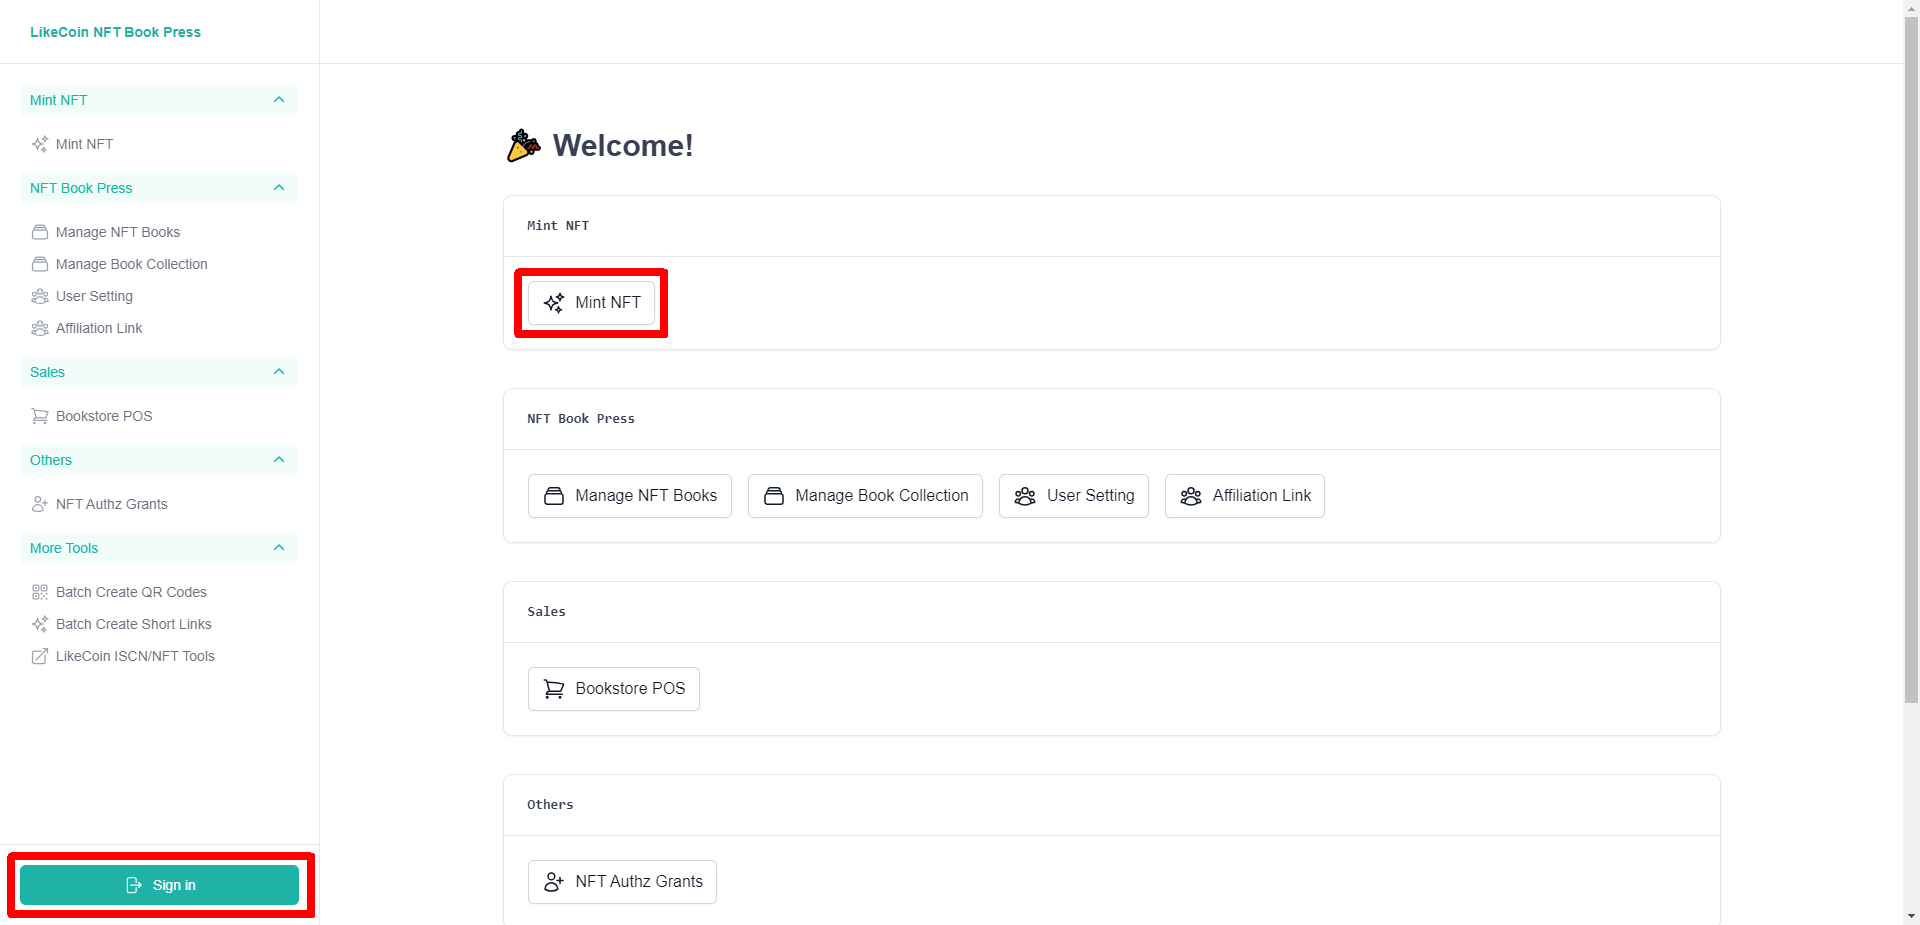
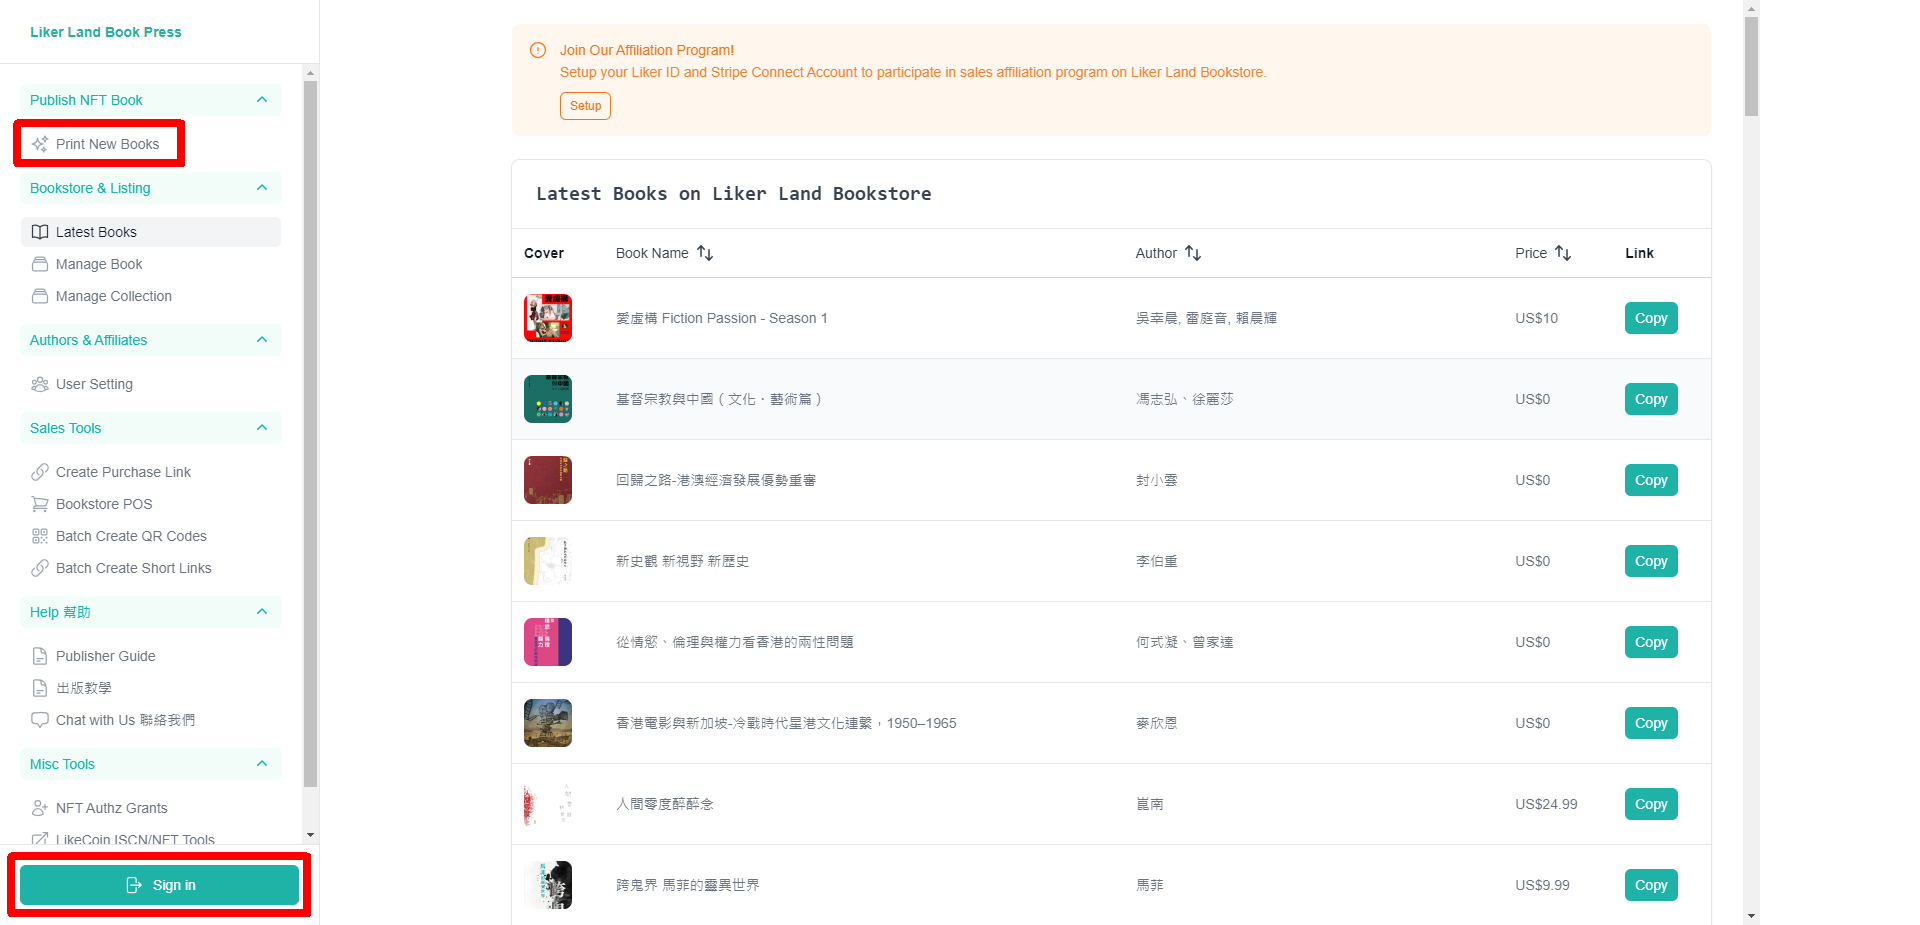
GITBOOK-4741: 出版電子書

diff --git a/depub/nft-book-press/README.md b/depub/nft-book-press/README.md
@@ -1,5 +1,5 @@
 ---
-description: 使用 NFT Book Press 將電子書出版為 NFT
+description: 使用 Liker Land Book Press 將電子書出版為 NFT
 ---
 
 # 出版電子書
@@ -22,7 +22,7 @@ description: 使用 NFT Book Press 將電子書出版為 NFT
 
 4. [管理電子書](nft-book-store.md)
 5. [設定電子書套裝](collection.md)
-6. [NFT Book Press 用戶設定](user/)
+6. [Liker Land Book Press 用戶設定](user/)
 7. [設定推廣連結](tui-guang-lian-jie.md)
 8. [補書上架](replenishment.md)
 9. [修改已出版的電子書資料](modify.md)
@@ -114,13 +114,13 @@ description: 使用 NFT Book Press 將電子書出版為 NFT
 
 <figure><img src="../../.gitbook/assets/NFT Book Press 9.png" alt=""><figcaption><p>點「Mint Book」</p></figcaption></figure>
 
-系統會自動跳轉到 [LikeCoin NFT Book Press](https://likecoin.github.io/nft-book-press/) 網站的 Mint LikeCoin NFT/NFT Book 頁面，並於 Enter ISCN ID or NFT Class ID 一欄預先輸入ISCN ID。點左下角「**Sign In**」登入網站後再點「**Submit**」。
+系統會自動跳轉到 [Liker Land Book Press](https://publish.liker.land/) 網站的 Mint Liker Land NFT Book 頁面，並於 Enter ISCN ID or NFT Class ID 一欄預先輸入 ISCN ID。點左下角「**Sign In**」登入網站後再點「**Submit**」。
 
-<figure><img src="../../.gitbook/assets/NFT Book Press 17.png" alt=""><figcaption><p>在 Enter ISCN ID or NFT Class ID 一欄輸入 ISCN ID</p></figcaption></figure>
+<figure><img src="../../.gitbook/assets/NFT Book Press 17 (1).png" alt=""><figcaption><p>在 Enter ISCN ID or NFT Class ID 一欄輸入 ISCN ID</p></figcaption></figure>
 
-又或者直接到 [LikeCoin NFT Book Press](https://likecoin.github.io/nft-book-press/) 網站按左下角「**Sign In**」登入，再點「[Mint NFT](https://likecoin.github.io/nft-book-press/mint-nft)」，進入網站後並於 Enter ISCN ID or NFT Class ID 一欄手動輸入早前註冊的 ISCN ID 再點「**Submit**」。
+又或者直接到 [Liker Land Book Press](https://publish.liker.land/) 網站按左下角「**Sign In**」登入，再點「[Print New Books](https://publish.liker.land/mint-nft)」，進入網站後並於 Enter ISCN ID or NFT Class ID 一欄手動輸入早前註冊的 ISCN ID 再點「**Submit**」。
 
-<figure><img src="../../.gitbook/assets/NFT Book Press 16.png" alt=""><figcaption><p>到 LikeCoin NFT BookPress 網站，點「Mint NFT」</p></figcaption></figure>
+<figure><img src="../../.gitbook/assets/NFT Book Press 16.png" alt=""><figcaption><p>到 LikeCoin NFT BookPress 網站，點「Print New Books」</p></figcaption></figure>
 
 {% hint style="info" %}
 假如你忘記了你的 ISCN ID，可以隨時到 app.like.co 的 [My Works](https://app.like.co/works) 找回它。
